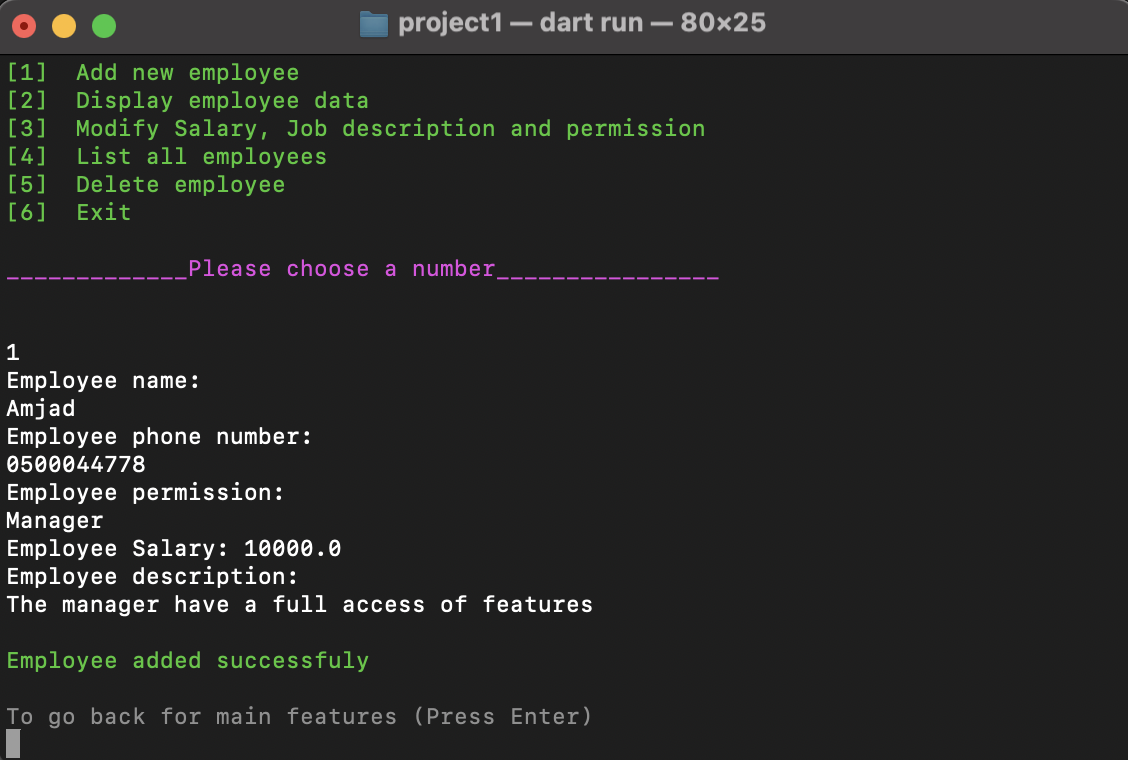
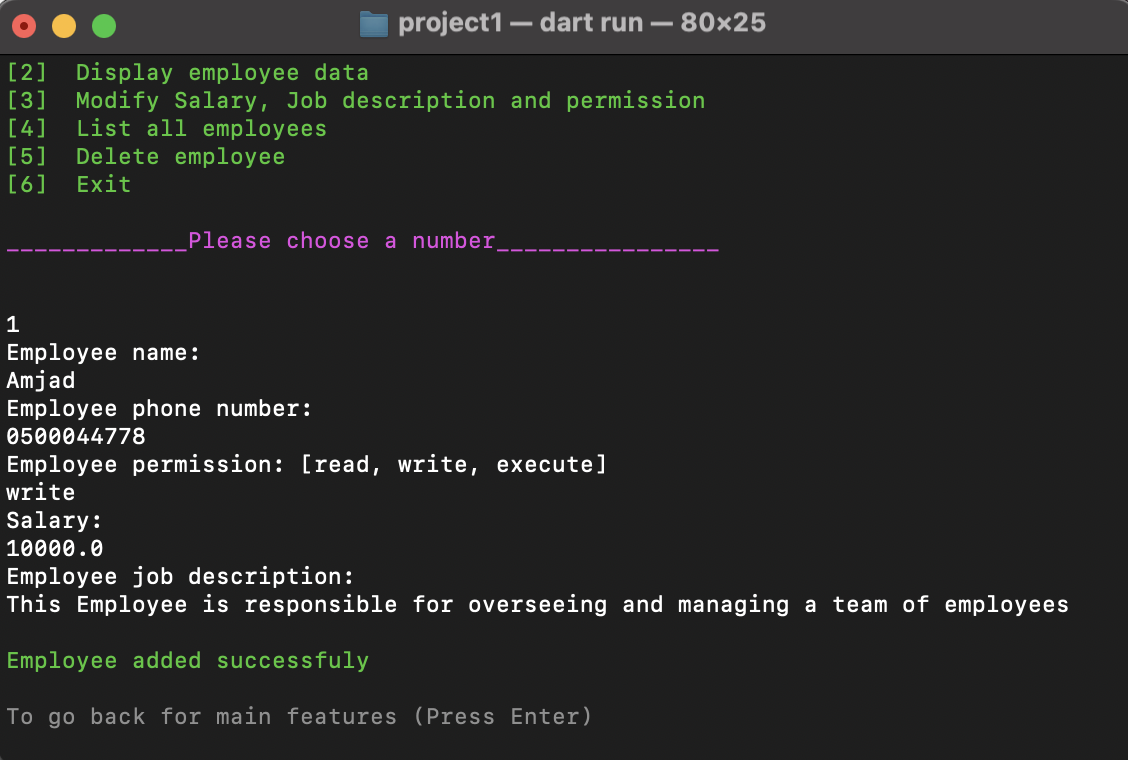
update README.md file

diff --git a/project1/bin/add_employee.dart b/project1/bin/add_employee.dart
@@ -27,7 +27,7 @@ addEmplyee() {
     print("Salary: ");
     salary = double.parse(stdin.readLineSync()!);
   }
-  print("Employee description: ");
+  print("Employee job description: ");
   String jobDescription = stdin.readLineSync()!;
 // map for storing emloyee's data
   Map<String, dynamic> employeesMap = {

diff --git a/project1/README.md b/project1/README.md
@@ -1,55 +1,78 @@
+<p align="center">
+<img src="images/tuwaiq_academy_logo.png" alt="Tuwaiq" width="400"/>
+<br/>
+
 # Simple Employee Manager
 
-#### The simple employee manager is an application for manage employees, allow users to add employee, assign permission, display employee data, list all employee, remove an employee and modifying the salaries, permissions and job descriptions.
+ The simple employee manager is an application for manage employees, allow users to add employee, assign permission, display employee data, list all employee, remove an employee and modifying the salaries, permissions and job descriptions.
 
 ## Requirements
 
-#### This project require a command line interface (CML) to run the application.
+ In order to run the application, this project requires a Dart SDK and a command line interface (CML).
+
+## install dart SDK
+ install dart SDK from [dart documentation](https://dart.dev/get-dart)
 
 ## How to run the project
 
-#### 1. Open terminal or CMD.
-#### 2. Navigate to the project path, such as 
+1. Open terminal or CMD.
+2. Navigate to the project path, such as 
 ```bash
 cd /Users/amjadelahi/dart-bootCamp/Project-1/project1
 ```
-#### 3. Run the application with a command: 
+ 3. Run the application with a command: 
 ```bash
 dart run
 ```
-#### then the app's features and greeting message will be displayed to you, like the one in the picture below..
+ the app's features and greeting message will be displayed to you, like the one in the picture below..
 
- <div style="width:50%; margin: auto;">
+ <div style="width:40%; margin: auto;">
 
 ![A caption goes here](images/home_screen.png) 
 </div>
 
-#### 4. Select a number (for example, number 1) to add an employee, then complete the data
+ 4. Select a number (for example, number 1) to add an employee, then complete the data
 
-<div style="width:50%; margin: auto;">
+<div style="width:40%; margin: auto;">
 
  ![add_employee](images/add_employee.png)
 </div>
 
-#### 5. Use the key (Enter) to return to the main features.
-#### 6. In order to access the feature 2, 3 and 5, you need the employee's ID.
-#### 7. Select number 4 to obtain the employee's ID.
+ 5. Use the key (Enter) to return to the main features.
+ 6. In order to access the feature 2, 3 and 5, you need the employee's ID.
+ 7. Select number 4 to obtain the employee's ID.
 
-<div style="width:50%; margin: auto;">
+<div style="width:40%; margin: auto;">
 
 ![list_all_employee](images/list_all_employee.png)
 </div>
 
-#### 8. Copy ID number
-#### 9. For modification choose number 3 and entering the employee's ID, a list containing the items to be modified will appear. Let's change the salary, for example.
+ 8. Copy ID number
+ 9. For modification choose number 3 and entering the employee's ID, a list containing the items to be modified will appear.
 
-***Note: Modify salary only if employee work for an overtime hours***
+ 10. To change salary choose number 1, then a list containing to modify salary or adding an overtime pay
 
-<div style="width:50%; margin: auto;">
+<div style="width:40%; margin: auto;">
 
 ![modify_salary](images/modify_salary.png)
 </div>
 
-#### 10. In order to modify the job description and permissions, navigate to the major features, choose number 3, and then choose the number you want of either.
-#### 11. Finally, select number 6 to exit the app.
+ 11. In order to modify the job description and permissions, navigate to the major features, choose number 5, and then choose the number you want of either.
+ 12. To remove an employee choose number 3, then enter employee's ID.
+
+<div style="width:40%; margin: auto;">
+
+![remove_employee](images/remove_employee.png)
+</div>
+
+ 13. In order to check if employee removed form application, choose number 4 to list all employee.
+
+<div style="width:40%; margin: auto;">
+
+![remove_employee](images/remove_employee.png)
+</div>
+
+ 14. Finally, select number 6 to exit the app.
+
+ 
 
